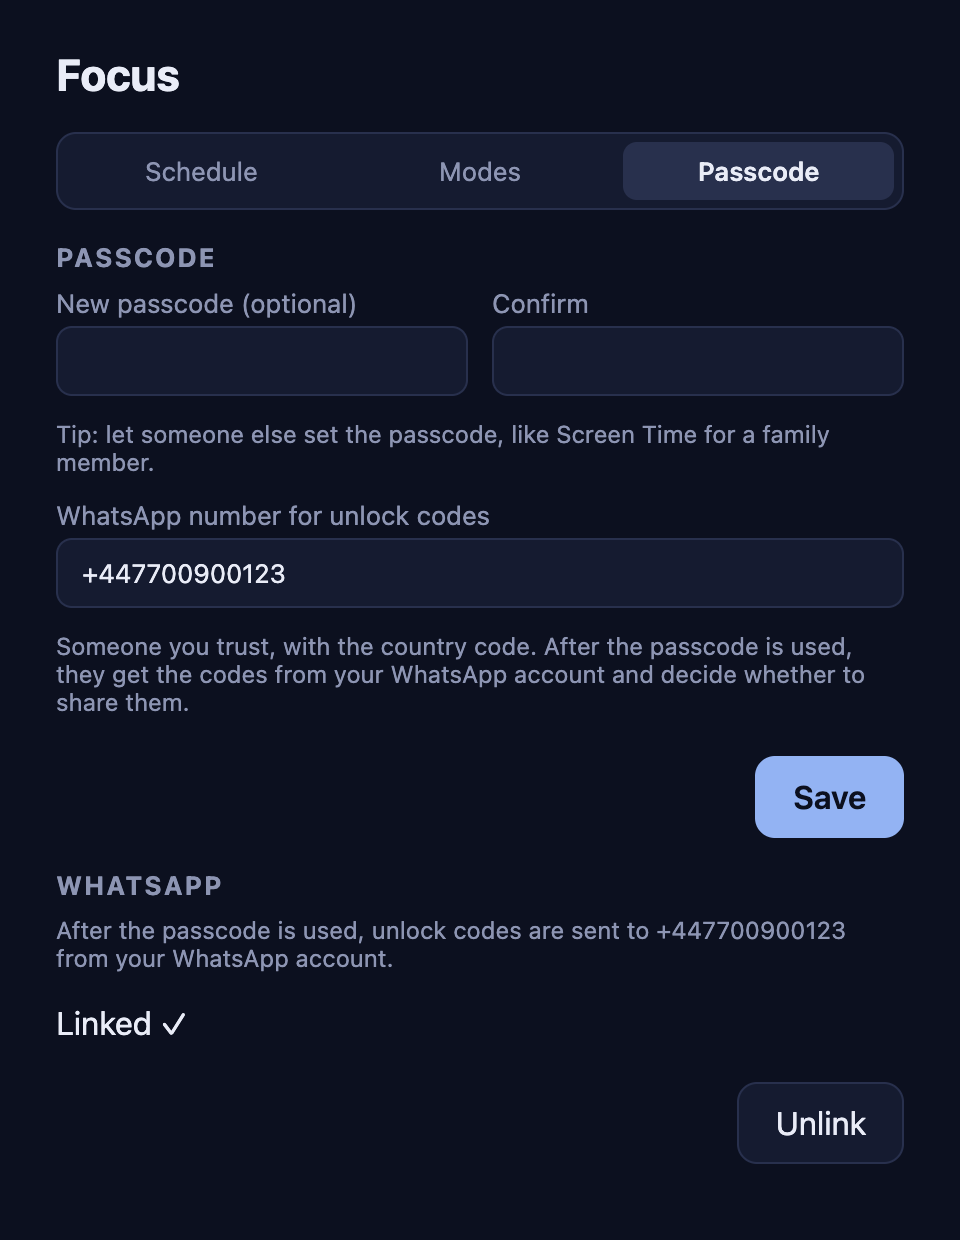
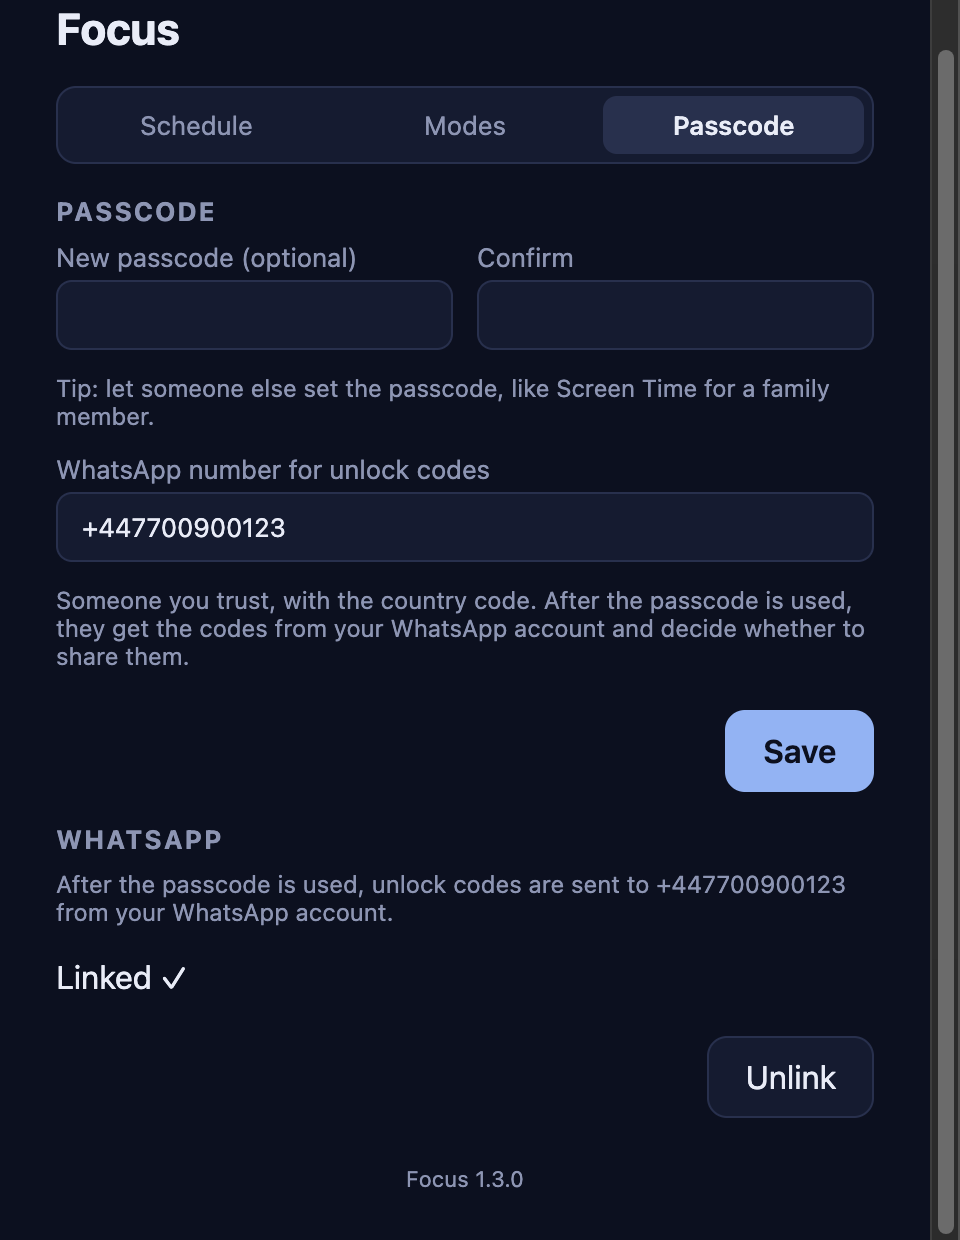
feat: show the app version in the settings footer
settings:get now includes app.getVersion(), shown in a small footer.
Passcode settings screenshot refreshed.

Version 1.3.0.

diff --git a/src/renderer/styles.css b/src/renderer/styles.css
@@ -139,6 +139,7 @@ textarea:focus { outline: 2px solid var(--accent); outline-offset: 1px; }
 .settings .notice { padding: 10px 12px; border-radius: 8px; background: var(--panel); border: 1px solid var(--border); font-size: 13px; }
 .settings ul { margin: 12px 0 0; padding-left: 18px; font-size: 13px; }
 .settings .hint { font-size: 12px; margin-top: 0; }
+.settings .version { margin-top: 24px; font-size: 11px; text-align: center; }
 .settings .tabs { display: flex; gap: 4px; margin: 16px 0 4px; padding: 4px; border-radius: 10px; background: var(--panel); border: 1px solid var(--border); }
 .settings .tabs button { flex: 1; padding: 7px 10px; border: none; border-radius: 7px; background: none; color: var(--muted); font-size: 13px; }
 .settings .tabs button[aria-selected='true'] { background: var(--border); color: var(--text); font-weight: 600; }

diff --git a/src/renderer/settings.js b/src/renderer/settings.js
@@ -121,6 +121,7 @@ const init = async () => {
   document.querySelectorAll('[data-tab]').forEach((tab) => tab.addEventListener('click', () => showTab(tab.dataset.tab)));
   const settings = await window.focusLock.getSettings();
   fillForm(settings);
+  $('version').textContent = `Focus ${settings.version}`;
   showTab(settings.hasPasscode ? 'schedule' : 'passcode');
   renderWhatsApp(settings.whatsapp);
   window.focusLock.onWhatsAppUpdate(renderWhatsApp);

diff --git a/src/renderer/settings.html b/src/renderer/settings.html
@@ -95,6 +95,7 @@
           <button type="button" id="wa-unlink" class="hidden">Unlink</button>
         </div>
       </section>
+      <footer class="version muted" id="version"></footer>
     </main>
 
     <dialog id="confirm-dialog" class="confirm-dialog">

diff --git a/src/main.js b/src/main.js
@@ -980,6 +980,7 @@ const registerIpc = () => {
       ...toPublicSettings(config),
       editable: settingsEditable(),
       whatsapp: { status: whatsappClient.status },
+      version: app.getVersion(),
     };
   });
 

diff --git a/CHANGELOG.md b/CHANGELOG.md
@@ -3,6 +3,12 @@
 All notable changes to this project are documented here. The format follows
 [Keep a Changelog](https://keepachangelog.com/en/1.1.0/), and versions follow [Semantic Versioning](https://semver.org).
 
+## [1.3.0] - 2026-10-22
+
+### Added
+
+- Settings shows the app version in a small footer.
+
 ## [1.2.0] - 2026-10-22
 
 ### Added
